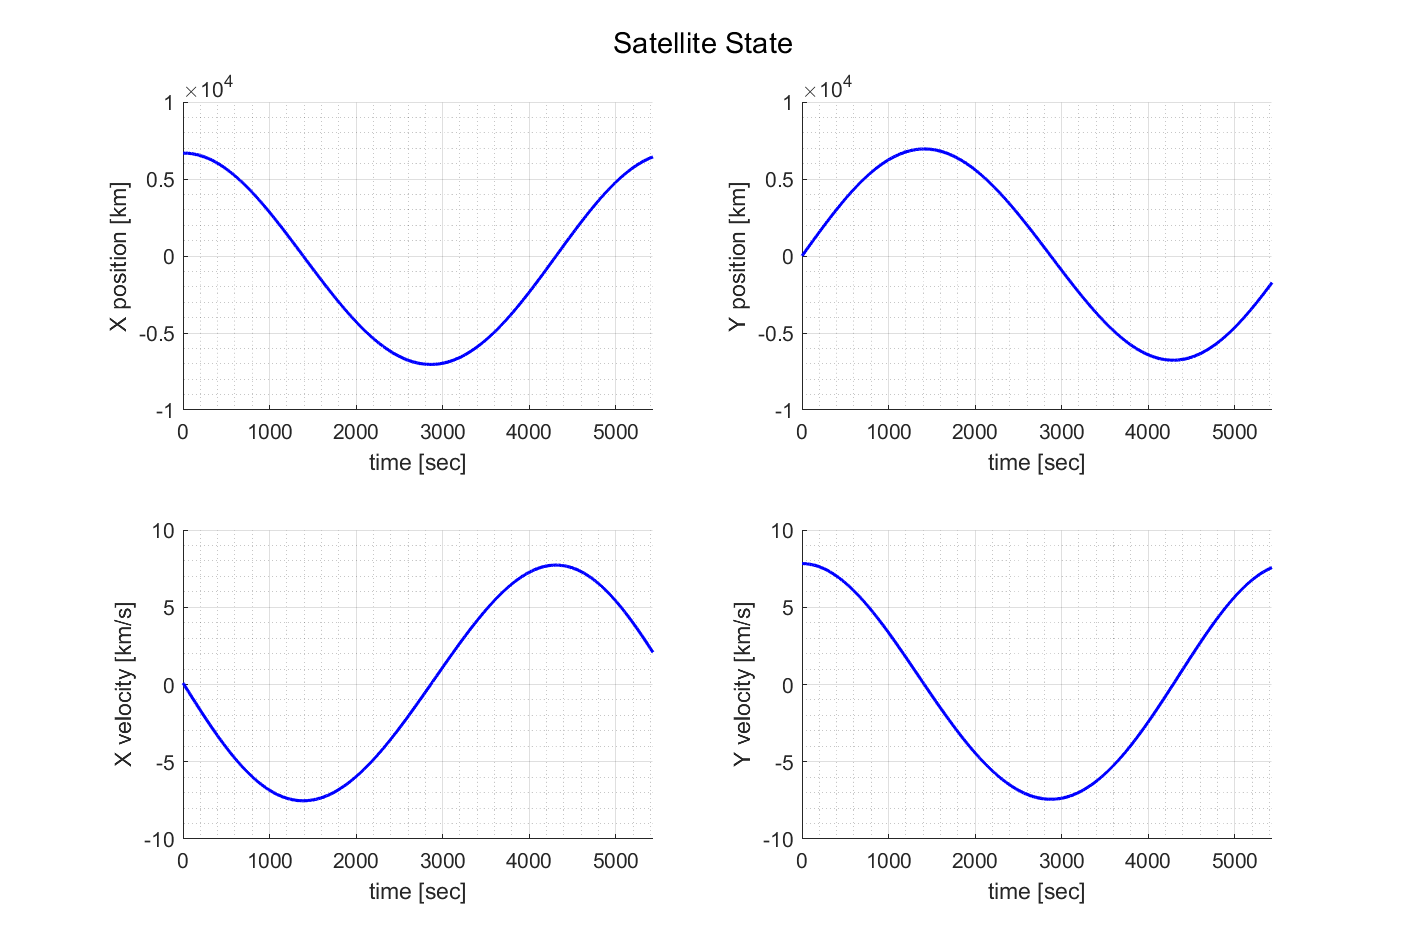
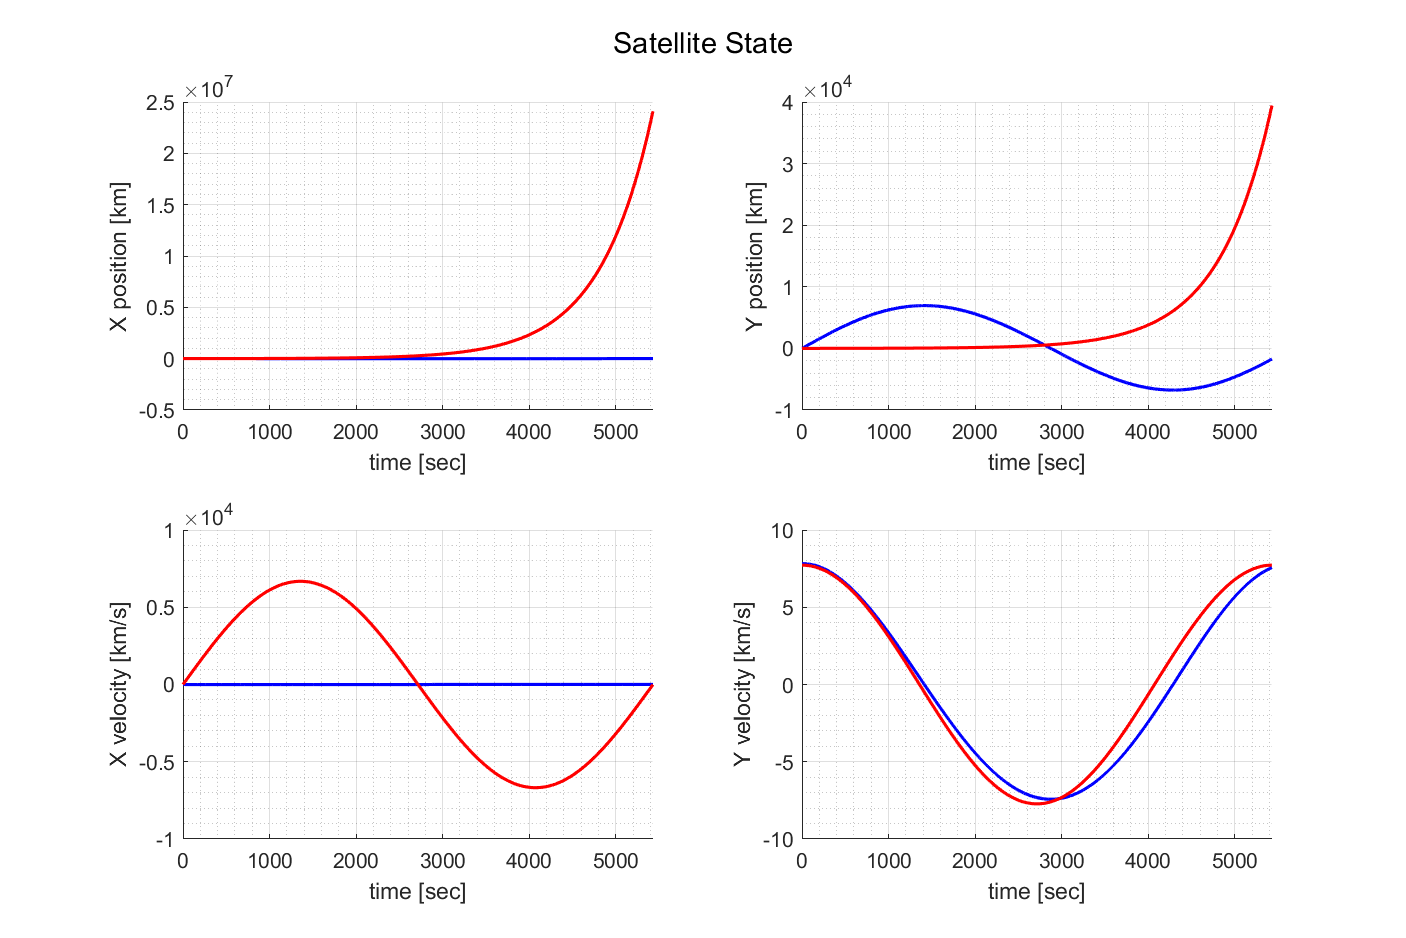
Working Atil/DT model

diff --git a/ASEN5044_HW8_problem2.m b/ASEN5044_HW8_problem2.m
@@ -10,12 +10,17 @@ mu = 398600;        % km^3/s^2
 r0 = 6678;          % km
 
 x0 = [6678, 0, 0, r0*sqrt(mu/r0^3)]';
+P = 2*pi*sqrt(r0^3/mu);
 
 %====== a ======%
+
+r0_nom = 6678;
+x1_nom = 6678;
+x3_nom = 0;
 Atil = [0, 1, 0, 0;
-        2*mu/r0^3, 0, 0, 0;
+        (-mu/r0_nom^3)+((3*mu*x1_nom^2)/r0_nom^5), 0, ((3*mu*x1_nom*x3_nom)/r0_nom^5), 0;
         0, 0, 0, 1;
-        0, 0, -mu/r0^3, 0];
+        ((3*mu*x1_nom*x3_nom)/r0_nom^5), 0, (-mu/r0^3)+((3*mu*x3_nom^3)/r0_nom^5), 0];
     
 Btil = [0, 0;
         1, 0;
@@ -27,14 +32,25 @@ Btil = [0, 0;
 
 
 %====== b ======%
+dt = 10;
+F = expm(dt*Atil);
 
+t_vec = 0:dt:P;
+updatex = x0;
+
+x_sim = [];
+for i = 1:length(t_vec)
+        x_sim = horzcat(x_sim, updatex);
+        updatex = F*updatex;
+end
+x_sim = x_sim';
 
 
 
 %====== c ======%
 % One Full Orbit Period
 % Simulate the Linearized DT dynamics
-P = 2*pi*sqrt(r0^3/mu);
+
 
 s0 = x0 + [1, 1, 0.1, 0.1]';
 opts = odeset('RelTol',1e-12,'AbsTol',1e-12);
@@ -50,24 +66,28 @@ sgtitle('Satellite State');
 
 subplot(2,2,1); hold on; grid on; grid minor;
 plot(T,S(:,1),'b-','LineWidth',1.5);
+plot(t_vec,x_sim(:,1),'r-','LineWidth',1.5);
 xlabel('time [sec]');
 ylabel('X position [km]');
 xlim([0 P]);
 
 subplot(2,2,2); hold on; grid on; grid minor;
 plot(T,S(:,2),'b-','LineWidth',1.5);
+plot(t_vec,x_sim(:,2),'r-','LineWidth',1.5);
 xlabel('time [sec]');
 ylabel('Y position [km]');
 xlim([0 P]);
 
 subplot(2,2,3); hold on; grid on; grid minor;
 plot(T,S(:,3),'b-','LineWidth',1.5);
+plot(t_vec,x_sim(:,3),'r-','LineWidth',1.5);
 xlabel('time [sec]');
 ylabel('X velocity [km/s]');
 xlim([0 P]);
 
 subplot(2,2,4); hold on; grid on; grid minor;
 plot(T,S(:,4),'b-','LineWidth',1.5);
+plot(t_vec,x_sim(:,4),'r-','LineWidth',1.5);
 xlabel('time [sec]');
 ylabel('Y velocity [km/s]');
 xlim([0 P]);
